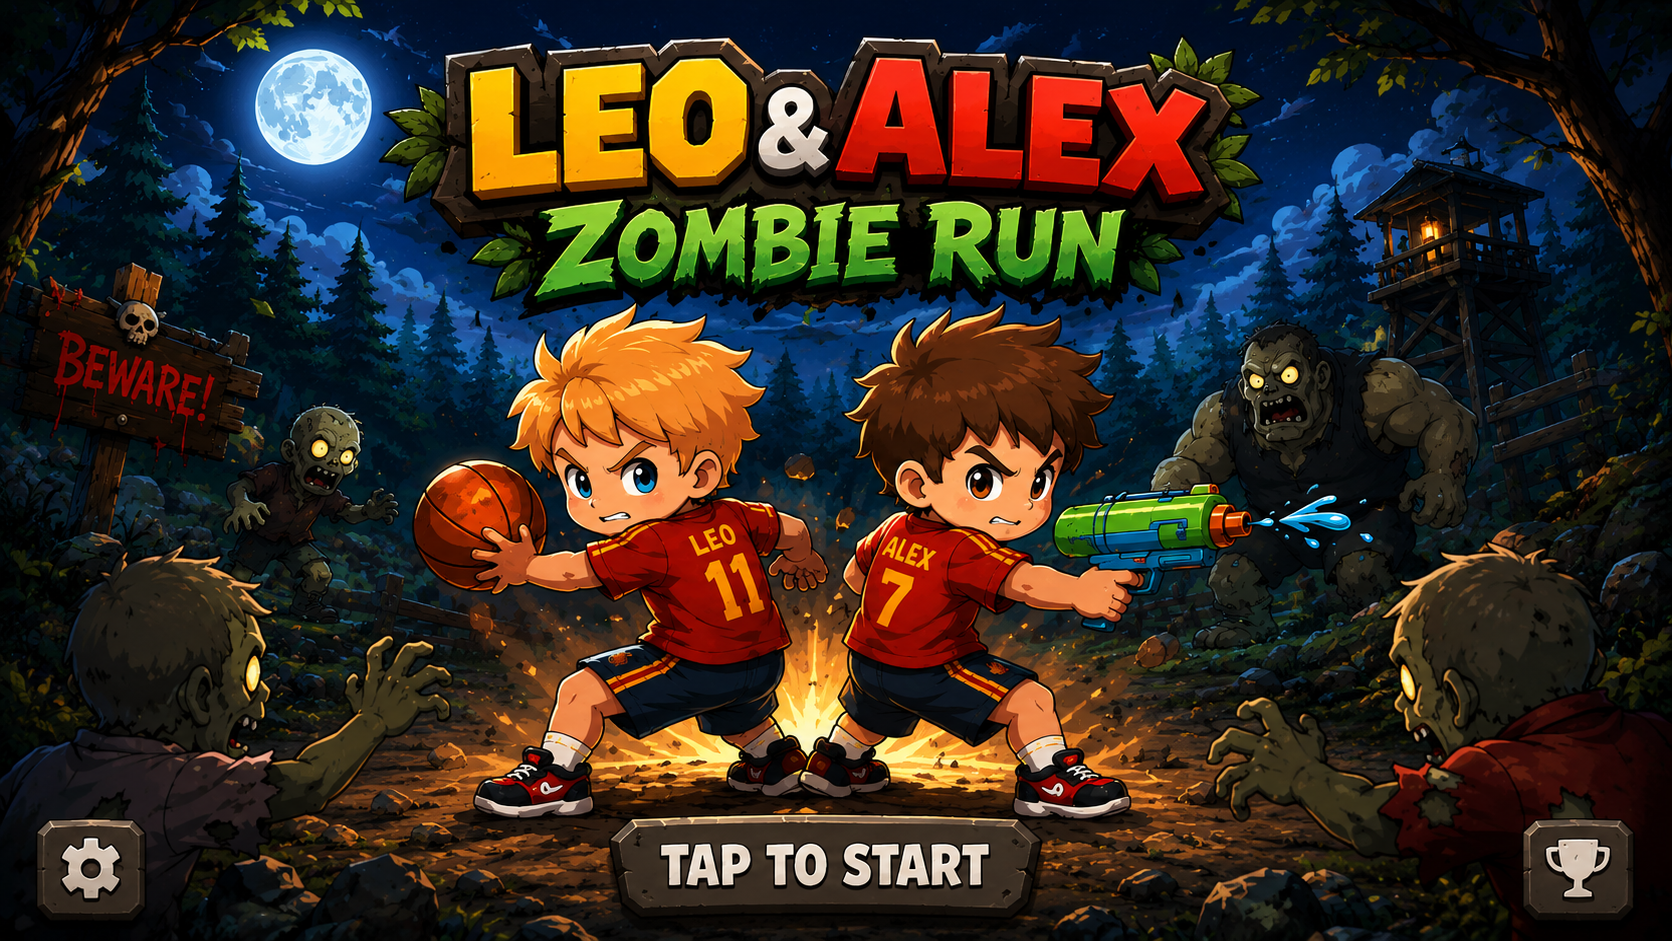
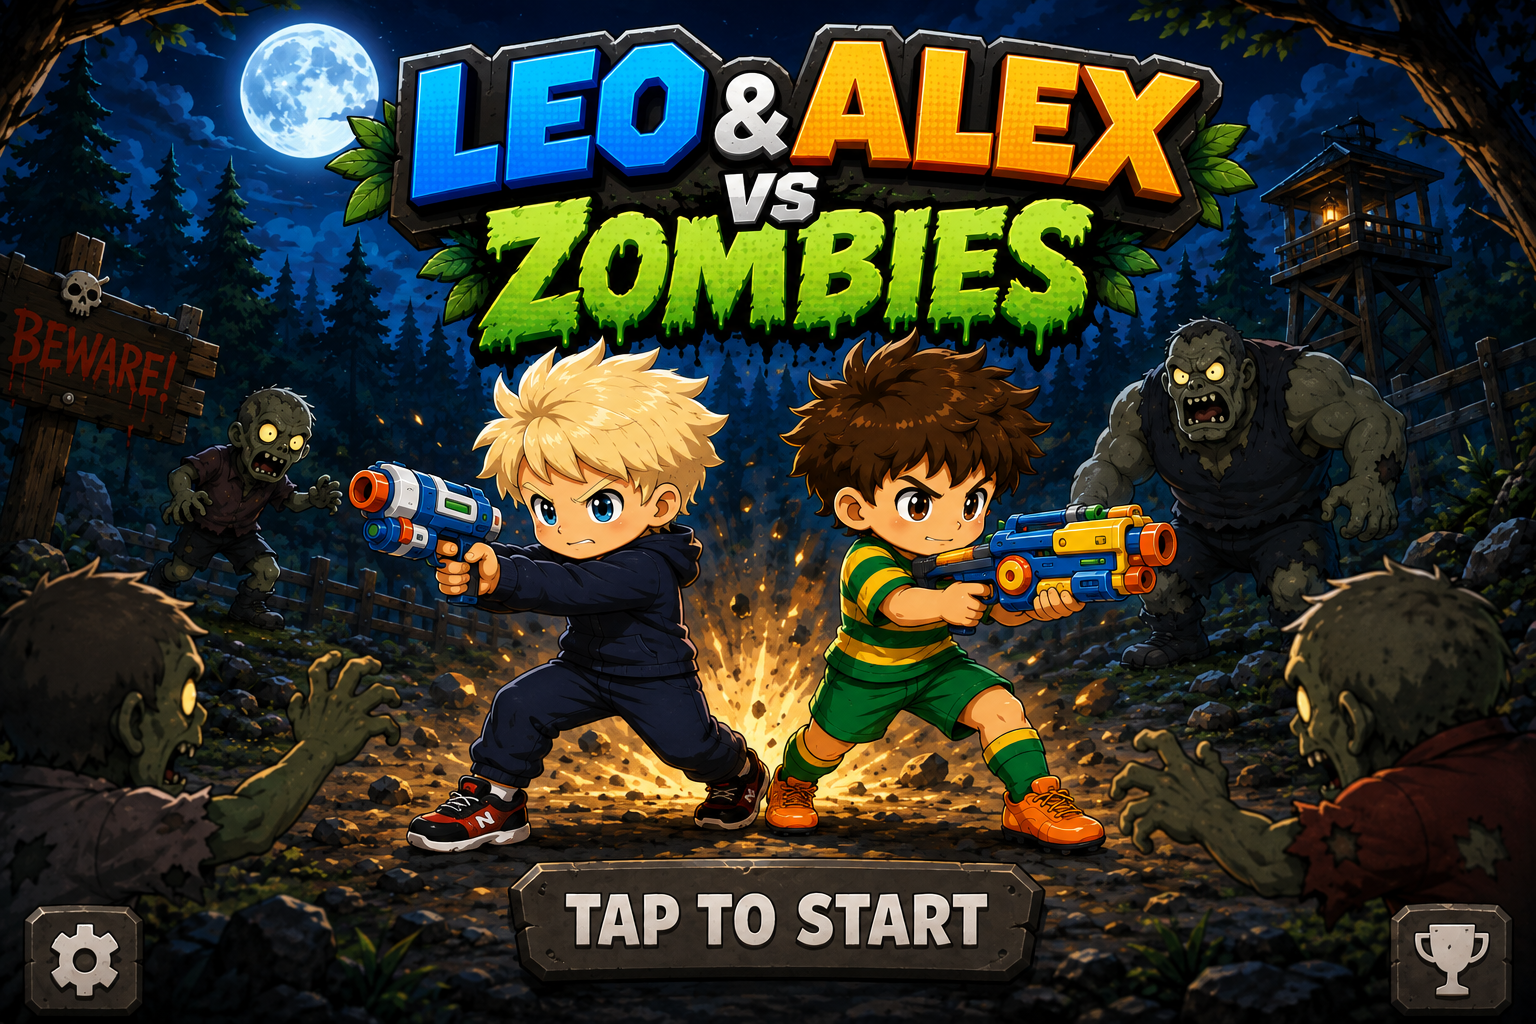
Nueva pantalla de título Leo &amp; Alex vs Zombies (#23)
- Sustituye public/title.png por la nueva ilustración (1536x1024, 3:2).
- Como la imagen es 3:2 y el marco del juego 16:9, se muestra completa
  (objectFit contain) sin recortar el título ni los botones inferiores;
  los laterales se rellenan con una copia difuminada y oscurecida de la
  propia imagen, sin barras planas.
- Los botones invisibles de ⚙ y 🏆 y el pulso de "TAP TO START" se anclan
  a la imagen (no al marco), así cuadran con los iconos dibujados.

Claude-Session: https://claude.ai/code/session_01NLwbvy1JSW4X3xWniPD8hN

diff --git a/src/App.jsx b/src/App.jsx
@@ -935,18 +935,26 @@ export default function LeoRun() {
 
         {phase === "title" && (
           <div className="absolute inset-0 cursor-pointer select-none" onClick={() => setPhaseBoth("select")}
-            style={{ borderRadius: 18, overflow: "hidden", background: "#0c130d" }}>
-            <img src="/title.png" alt="Leo & Alex Zombie Run" draggable="false"
-              className="absolute inset-0 w-full h-full" style={{ objectFit: "cover" }} />
-            {/* pista de pulso sobre el botón "TAP TO START" (dibujado en la imagen) */}
-            <div className="absolute pointer-events-none"
-              style={{ left: "50%", bottom: "4%", transform: "translateX(-50%)", width: "34%", height: "11%", borderRadius: 14, animation: "tapPulse 1.3s ease-in-out infinite" }} />
-            {/* engranaje (abajo izq.) */}
-            <button aria-label="Ajustes" onClick={(e) => { e.stopPropagation(); setMenu("settings"); }}
-              className="absolute cursor-pointer" style={{ left: "1.5%", bottom: "3%", width: "9%", height: "13%", background: "transparent", border: "none" }} />
-            {/* trofeo (abajo der.) */}
-            <button aria-label="Logros" onClick={(e) => { e.stopPropagation(); setMenu("trophy"); }}
-              className="absolute cursor-pointer" style={{ right: "1.5%", bottom: "3%", width: "9%", height: "13%", background: "transparent", border: "none" }} />
+            style={{ borderRadius: 18, overflow: "hidden", background: "#0b1420" }}>
+            {/* fondo difuminado: rellena los laterales (la imagen es 3:2 y el marco 16:9) sin barras planas */}
+            <img src="/title.png" alt="" aria-hidden="true" draggable="false"
+              className="absolute inset-0 w-full h-full" style={{ objectFit: "cover", filter: "blur(18px) brightness(.45)", transform: "scale(1.1)" }} />
+            {/* imagen completa, centrada y sin recorte */}
+            <div className="absolute inset-0 flex items-center justify-center">
+              <div style={{ position: "relative", height: "100%", aspectRatio: "1536 / 1024", maxWidth: "100%" }}>
+                <img src="/title.png" alt="Leo & Alex vs Zombies" draggable="false"
+                  className="w-full h-full" style={{ objectFit: "contain", display: "block" }} />
+                {/* pista de pulso sobre el botón "TAP TO START" (dibujado en la imagen) */}
+                <div className="absolute pointer-events-none"
+                  style={{ left: "50%", bottom: "5.5%", transform: "translateX(-50%)", width: "38%", height: "12%", borderRadius: 14, animation: "tapPulse 1.3s ease-in-out infinite" }} />
+                {/* engranaje (abajo izq.) */}
+                <button aria-label="Ajustes" onClick={(e) => { e.stopPropagation(); setMenu("settings"); }}
+                  className="absolute cursor-pointer" style={{ left: "1%", bottom: "2%", width: "10%", height: "14%", background: "transparent", border: "none" }} />
+                {/* trofeo (abajo der.) */}
+                <button aria-label="Logros" onClick={(e) => { e.stopPropagation(); setMenu("trophy"); }}
+                  className="absolute cursor-pointer" style={{ right: "1%", bottom: "2%", width: "10%", height: "14%", background: "transparent", border: "none" }} />
+              </div>
+            </div>
           </div>
         )}
 
